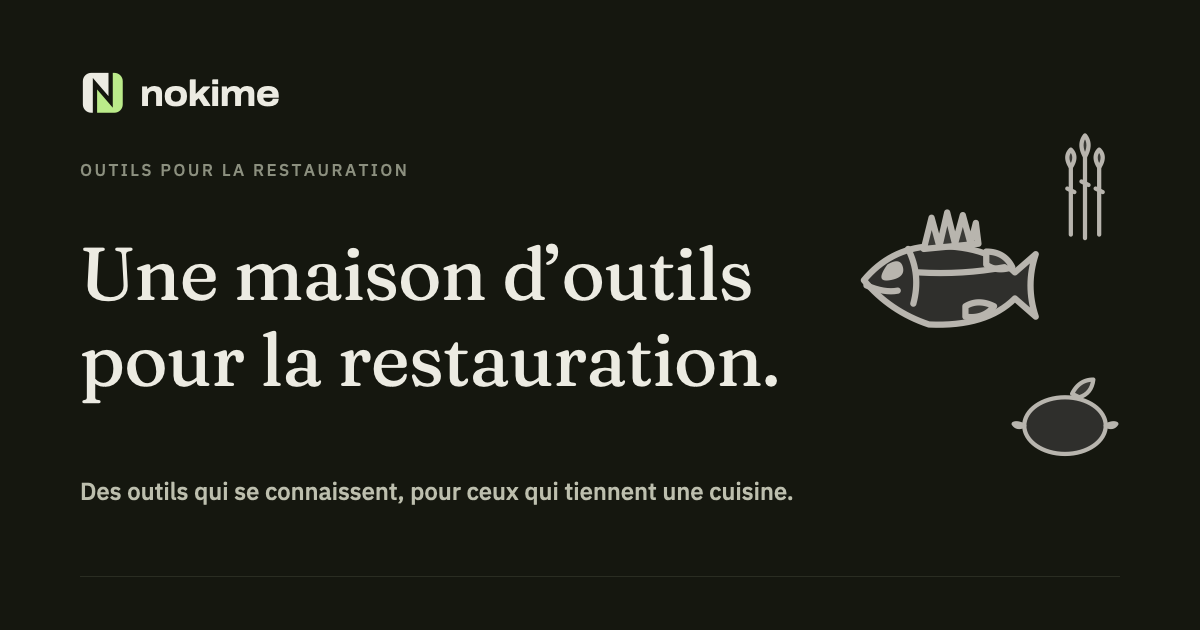
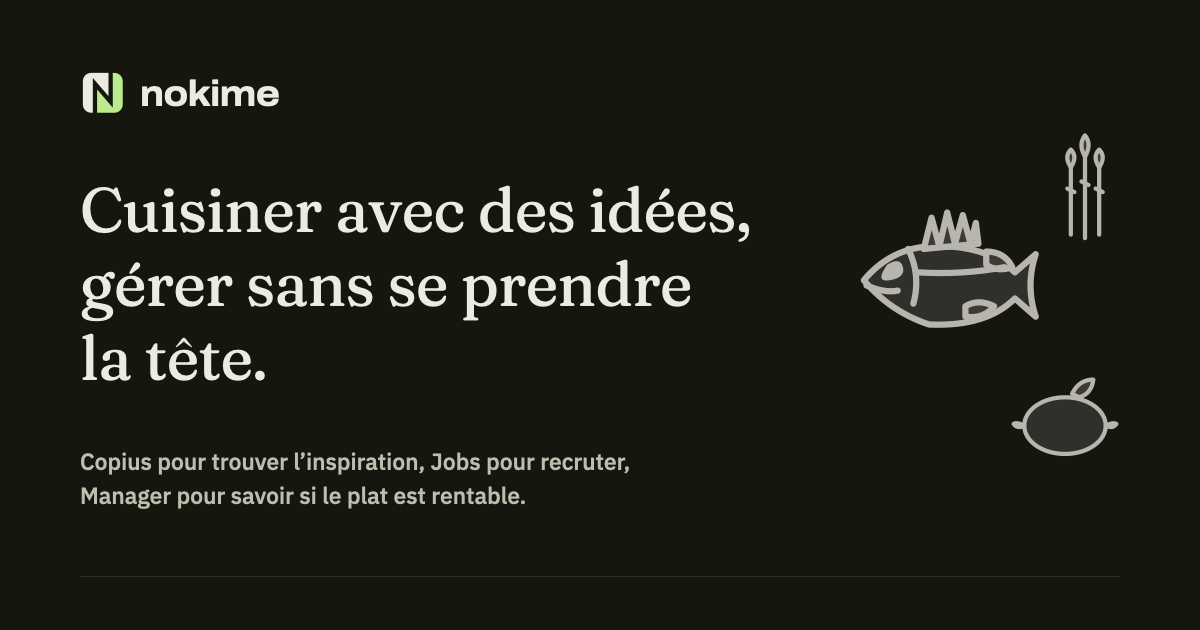
Accueil : titre d’onglet, texte et image de partage, « Nos trois outils. » (FR/EN)

Changed region(s): [[0.0617, 0.2413, 0.6475, 0.6635], [0.0617, 0.7238, 0.6475, 0.8143]]

diff --git a/js/i18n.js b/js/i18n.js
@@ -35,7 +35,7 @@ window.NOKIME_I18N = {
     footTag: "Tools for restaurants.", footLegal: "Legal notice", footNav: "Footer",
     langSwitch: "Passer en français", menuLabel: "Menu",
     titleNotFound: "Page not found — Nokime", nfEyebrow: "Error 404", nfTitle: "This page does not exist.", nfLead: "The address may have changed. Everything that exists is one click from here.", nfHome: "Back to the home page",
-    titleHome: "Nokime — tools for restaurants",
+    titleHome: "Nokime — cook with ideas, run things without the headache",
     descHome: "Nokime is a house of tools for restaurants: an illustrated atlas of ingredients, a costing tool and a board of internships and seasons in hotels and restaurants, sharing the same products, prices and seasons.",
     titleManager: "Nokime Manager — the cost of the plate",
     descManager: "Nokime Manager: food cost per portion, ratio, gross margin and floor price for every dish; your purchase prices; the allergen chart; one typical service read in plain words. Offline, with 1,839 products already priced.",
@@ -74,7 +74,7 @@ window.NOKIME_I18N = {
     stat1n: "Out of ideas in the kitchen?", stat1l: "Copius: what’s in season, and what goes with it.",
     stat2n: "Nobody for the season?", stat2l: "Jobs: your internship and seasonal offers, with a welcome charter.",
     stat3n: "At that price, does the dish pay?", stat3l: "Manager tells you before service.",
-    prodKicker: "Three tools, one house.",
+    prodKicker: "Our three tools.",
     mTag: "Founders’ offer open", mSub: "The cost of the plate, and what the service does.",
     mText: "Cost per portion, food-cost ratio, gross margin and floor price for every dish; your purchase prices and yields per product; one typical service — brigade, overheads, break-even — read in plain words. One file, offline, with Copius’s 1,839 products already priced.",
     mLink: "See Nokime Manager",

diff --git a/index.html b/index.html
@@ -3,12 +3,12 @@
 <head>
 <meta charset="utf-8">
 <meta name="viewport" content="width=device-width, initial-scale=1, viewport-fit=cover">
-<title>Nokime — outils pour la restauration</title>
+<title>Nokime — cuisiner avec des idées, gérer sans prise de tête</title>
 <meta name="description" content="Nokime construit des outils pour ceux qui tiennent une cuisine : un atlas illustré des ingrédients, le coût de chaque plat, et des offres de stages et de saisons en hôtellerie-restauration.">
 <meta name="theme-color" content="#15170F">
-<meta property="og:title" content="Nokime — outils pour la restauration">
-<meta property="og:description" content="Une maison d’outils pour la restauration. Des outils qui se connaissent.">
-<meta property="og:image" content="https://nokime.fr/og.png">
+<meta property="og:title" content="Nokime — cuisiner avec des idées, gérer sans prise de tête">
+<meta property="og:description" content="Copius pour trouver l’inspiration, Jobs pour recruter, Manager pour savoir si le plat est rentable.">
+<meta property="og:image" content="https://nokime.fr/og.png?v=2">
 <meta property="og:image:width" content="1200">
 <meta property="og:image:height" content="630">
 <meta name="twitter:card" content="summary_large_image">
@@ -75,7 +75,7 @@
   <section class="section" id="outils">
     <div class="wrap">
       <div class="section-head">
-        <h2 class="kicker" data-t="prodKicker">Trois outils, une seule maison.</h2>
+        <h2 class="kicker" data-t="prodKicker">Nos trois outils.</h2>
       </div>
       <div class="products">
         <article class="product">

diff --git a/copius/index.html b/copius/index.html
@@ -8,7 +8,7 @@
 <meta name="theme-color" content="#15170F">
 <meta property="og:title" content="Nokime Copius — l’atlas illustré de la cuisine">
 <meta property="og:description" content="Un outil pour chercher, pas pour vérifier : partez d’un produit, suivez ses accords, testez une assiette.">
-<meta property="og:image" content="https://nokime.fr/og.png">
+<meta property="og:image" content="https://nokime.fr/og.png?v=2">
 <meta property="og:image:width" content="1200">
 <meta property="og:image:height" content="630">
 <meta name="twitter:card" content="summary_large_image">

diff --git a/jobs/index.html b/jobs/index.html
@@ -8,7 +8,7 @@
 <meta name="theme-color" content="#15170F">
 <meta property="og:title" content="Nokime Jobs — stages, alternances et saisons en hôtellerie-restauration">
 <meta property="og:description" content="Des stages et des saisons dans des maisons qui en valent la peine.">
-<meta property="og:image" content="https://nokime.fr/og.png">
+<meta property="og:image" content="https://nokime.fr/og.png?v=2">
 <meta property="og:image:width" content="1200">
 <meta property="og:image:height" content="630">
 <meta name="twitter:card" content="summary_large_image">

diff --git a/manager/index.html b/manager/index.html
@@ -8,7 +8,7 @@
 <meta name="theme-color" content="#15170F">
 <meta property="og:title" content="Nokime Manager — le coût de l’assiette">
 <meta property="og:description" content="Le coût de l’assiette, avant le service. Pas après le bilan.">
-<meta property="og:image" content="https://nokime.fr/og.png">
+<meta property="og:image" content="https://nokime.fr/og.png?v=2">
 <meta property="og:image:width" content="1200">
 <meta property="og:image:height" content="630">
 <meta name="twitter:card" content="summary_large_image">

diff --git a/mentions-legales/index.html b/mentions-legales/index.html
@@ -8,7 +8,7 @@
 <meta name="robots" content="noindex,follow">
 <meta property="og:title" content="Mentions légales — Nokime">
 <meta property="og:description" content="Éditeur, hébergeur, données personnelles et crédits.">
-<meta property="og:image" content="https://nokime.fr/og.png">
+<meta property="og:image" content="https://nokime.fr/og.png?v=2">
 <meta property="og:image:width" content="1200">
 <meta property="og:image:height" content="630">
 <meta name="twitter:card" content="summary_large_image">

diff --git a/groupe/index.html b/groupe/index.html
@@ -8,7 +8,7 @@
 <meta name="theme-color" content="#15170F">
 <meta property="og:title" content="Le groupe — Nokime">
 <meta property="og:description" content="Un seul nom, plusieurs outils.">
-<meta property="og:image" content="https://nokime.fr/og.png">
+<meta property="og:image" content="https://nokime.fr/og.png?v=2">
 <meta property="og:image:width" content="1200">
 <meta property="og:image:height" content="630">
 <meta name="twitter:card" content="summary_large_image">

diff --git a/contact/index.html b/contact/index.html
@@ -8,7 +8,7 @@
 <meta name="theme-color" content="#15170F">
 <meta property="og:title" content="Contact — Nokime">
 <meta property="og:description" content="Un courriel suffit.">
-<meta property="og:image" content="https://nokime.fr/og.png">
+<meta property="og:image" content="https://nokime.fr/og.png?v=2">
 <meta property="og:image:width" content="1200">
 <meta property="og:image:height" content="630">
 <meta name="twitter:card" content="summary_large_image">

diff --git a/tools/og-card.py b/tools/og-card.py
@@ -31,10 +31,10 @@ svg = f'''<svg xmlns="http://www.w3.org/2000/svg" width="1200" height="1200" vie
 <rect width="1200" height="1200" fill="#15170F"/>
 <g transform="translate(0,285)">
 <g transform="translate(80,70)"><g transform="scale(0.19)"><path fill="#ECEBE2" d="M15 181V59A44 44 0 0 1 59 15H150V137.65L67.5 41.65V225H59A44 44 0 0 1 15 181Z"/><path fill="#BBEB8A" d="M90 225V102.35L172.5 198.35V15H181A44 44 0 0 1 225 59V181A44 44 0 0 1 181 225Z"/></g><text x="60" y="36" font-family="Archivo, Helvetica, sans-serif" font-weight="700" font-size="36" letter-spacing="-0.5" fill="#ECEBE2">nokime</text></g>
-<text x="80" y="176" font-family="IBM Plex Sans, Helvetica, sans-serif" font-size="17" letter-spacing="2.4" fill="#8C907F">OUTILS POUR LA RESTAURATION</text>
-<text font-family="Fraunces, Georgia, serif" font-size="74" fill="#ECEBE2" letter-spacing="-0.5">
-<tspan x="80" y="300">Une maison d’outils</tspan><tspan x="80" y="386">pour la restauration.</tspan></text>
-<text x="80" y="500" font-family="IBM Plex Sans, Helvetica, sans-serif" font-size="24" fill="#BDBFAE">Des outils qui se connaissent, pour ceux qui tiennent une cuisine.</text>
+<text font-family="Fraunces, Georgia, serif" font-size="62" fill="#ECEBE2" letter-spacing="-0.5">
+<tspan x="80" y="232">Cuisiner avec des idées,</tspan><tspan x="80" y="306">gérer sans se prendre</tspan><tspan x="80" y="380">la tête.</tspan></text>
+<text font-family="IBM Plex Sans, Helvetica, sans-serif" font-size="23" fill="#BDBFAE">
+<tspan x="80" y="470">Copius pour trouver l’inspiration, Jobs pour recruter,</tspan><tspan x="80" y="504">Manager pour savoir si le plat est rentable.</tspan></text>
 {drawing("sea-bass", 830, 150, 250)}{drawing("asparagus", 1000, 100, 170)}{drawing("lemon", 980, 330, 170)}
 <rect x="80" y="576" width="1040" height="1" fill="#2A2D22"/>
 </g>
